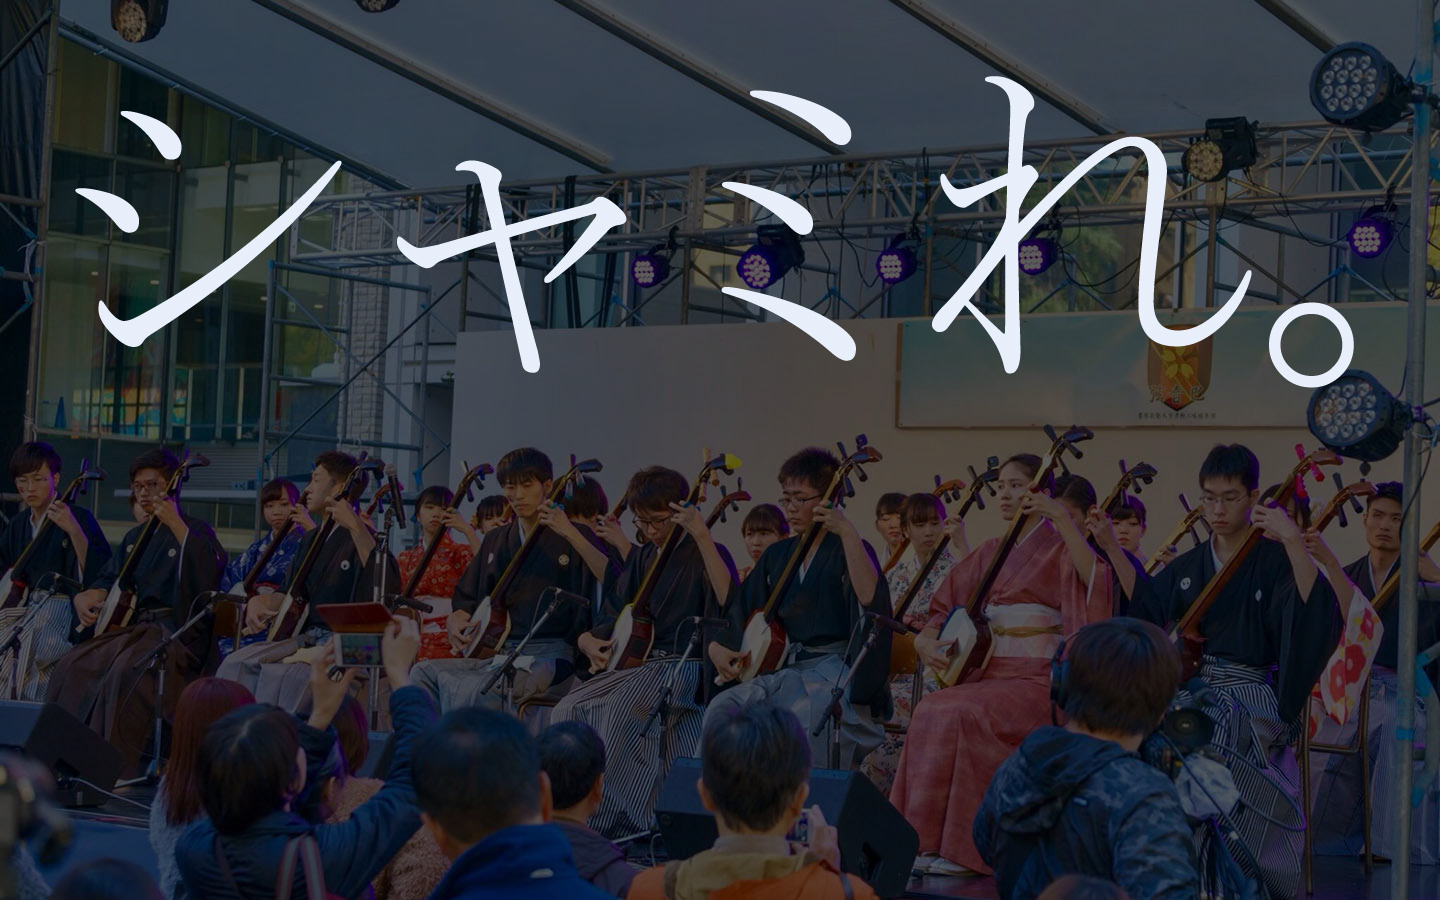
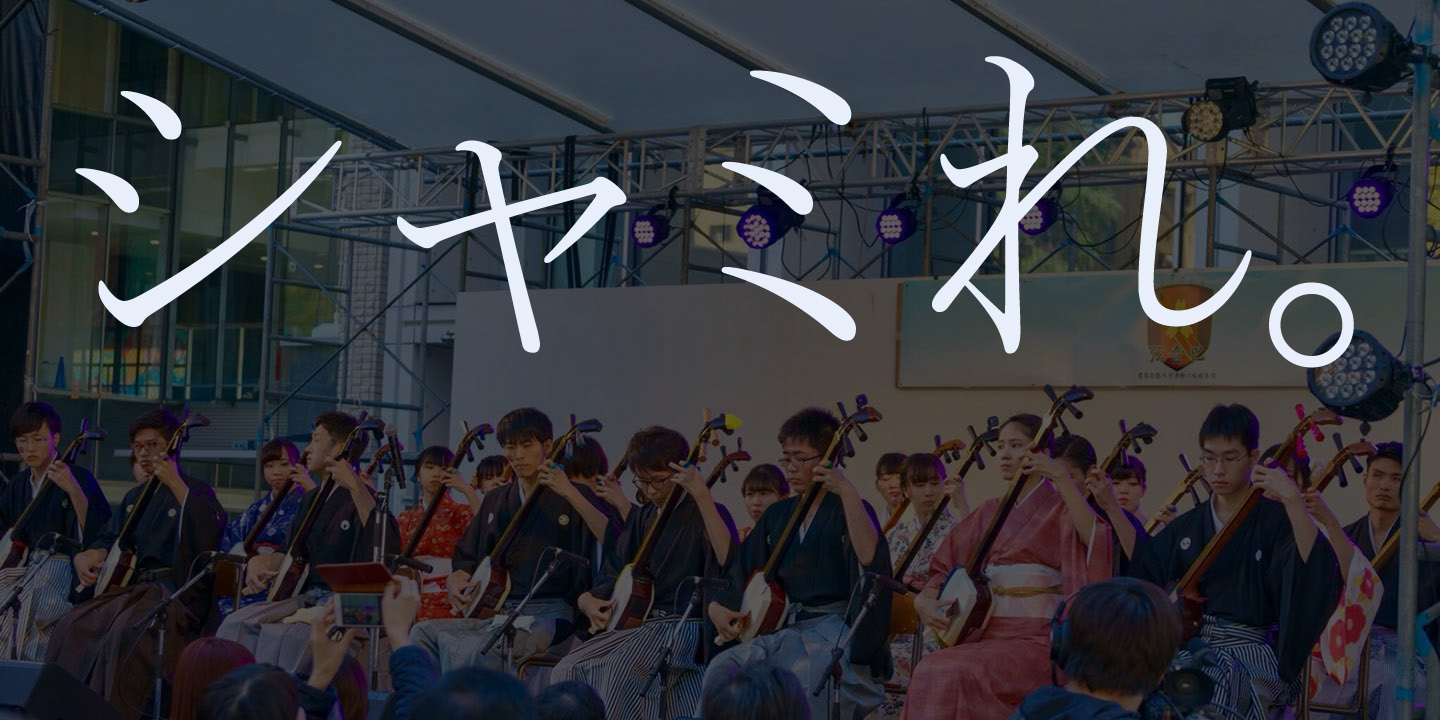
whatIsOtohaSetted

diff --git a/mobile.css b/mobile.css
@@ -12,102 +12,13 @@ body {
     background-size: cover;
 }
 
+section {
+    margin: 0 0 300px;
+}
+
 /*ファーストビュー設定*/
 header {
     position: relative;
-}
-
-#nav-drawer {
-    position: relative;
-}
-
-/*チェックボックス等は非表示に*/
-.nav-unshown {
-    display: none;
-}
-
-/*アイコンのスペース*/
-#nav-open {
-    display: inline-block;
-    width: 30px;
-    height: 22px;
-    vertical-align: middle;
-}
-
-/*ハンバーガーアイコンをCSSだけで表現*/
-#nav-open span,
-#nav-open span:before,
-#nav-open span:after {
-    position: absolute;
-    height: 3px;
-    /*線の太さ*/
-    width: 25px;
-    /*長さ*/
-    border-radius: 3px;
-    background: #555;
-    display: block;
-    content: '';
-    cursor: pointer;
-}
-
-#nav-open span:before {
-    bottom: -8px;
-}
-
-#nav-open span:after {
-    bottom: -16px;
-}
-
-/*閉じる用の薄黒カバー*/
-#nav-close {
-    display: none;
-    /*はじめは隠しておく*/
-    position: fixed;
-    z-index: 99;
-    top: 0;
-    /*全体に広がるように*/
-    left: 0;
-    width: 100%;
-    height: 100%;
-    background: black;
-    opacity: 0;
-    transition: .3s ease-in-out;
-}
-
-/*中身*/
-#nav-content {
-    overflow: auto;
-    position: fixed;
-    top: 0;
-    left: 0;
-    z-index: 9999;
-    /*最前面に*/
-    width: 90%;
-    /*右側に隙間を作る（閉じるカバーを表示）*/
-    max-width: 330px;
-    /*最大幅（調整してください）*/
-    height: 100%;
-    background: #fff;
-    /*背景色*/
-    transition: .3s ease-in-out;
-    /*滑らかに表示*/
-    -webkit-transform: translateX(-105%);
-    transform: translateX(-105%);
-    /*左に隠しておく*/
-}
-
-/*チェックが入ったらもろもろ表示*/
-#nav-input:checked ~ #nav-close {
-    display: block;
-    /*カバーを表示*/
-    opacity: .5;
-}
-
-#nav-input:checked ~ #nav-content {
-    -webkit-transform: translateX(0%);
-    transform: translateX(0%);
-    /*中身を表示（右へスライド）*/
-    box-shadow: 6px 0 25px rgba(0, 0, 0, .15);
 }
 
 .heroForStyle {
@@ -122,7 +33,7 @@ header {
 header div h1 {
     font-size: 56rem;
     font-weight: 300;
-    padding: 9% 2% 3%;
+    padding: 40% 2% 5%;
     -webkit-writing-mode: vertical-rl;
     -ms-writing-mode: tb-rl;
     writing-mode: vertical-rl;
@@ -132,7 +43,7 @@ header div h1 {
 
 header div {
     position: absolute;
-    top: 10%;
+    top: 16%;
     right: 0;
     left: 0;
     margin: 0 auto;
@@ -152,6 +63,7 @@ header p {
     background-size: contain;
     background-repeat: no-repeat;
     background-position: center;
+    margin: 0;
 }
 
 .catchPhrase p {
@@ -161,4 +73,44 @@ header p {
 
 nav {
     display: none;
+}
+
+/*弦音巴とは？作成*/
+#whatIsOtoha {
+    background-image: url(imageForMobile/whatIsOtoha.jpg);
+    background-size: cover;
+    background-repeat: no-repeat;
+    background-position: center;
+}
+
+#whatIsOtoha img {
+    width: 66%;
+    display: block;
+    margin: 0 auto;
+    padding: 20% 0;
+}
+
+#whatIsOtoha .purpose {
+    text-align: center;
+    font-size: 24rem;
+    display: inline-block;
+    padding: 3%;
+}
+
+#whatIsOtoha .purposeContainer {
+    display: flex;
+    flex-flow: row wrap;
+    justify-content: center;
+    padding: 0 0 20%;
+}
+
+#explanationStyle{
+    display: none;
+}
+
+#whatIsOtoha #explanationMobile {
+    text-align: center;
+    font-size: 12rem;
+    padding: 0 0 20%;
+    line-height: 4rem
 }

diff --git a/index.html b/index.html
@@ -12,12 +12,6 @@
 
 <body>
     <header>
-        <div id="nav-drawer">
-            <input id="nav-input" type="checkbox" class="nav-unshown">
-            <label id="nav-open" for="nav-input"><span></span></label>
-            <label class="nav-unshown" id="nav-close" for="nav-input"></label>
-            <div id="nav-content">ここに中身を入れる</div>
-        </div>
         <img class="heroForStyle" src="imageForStyle/hero.jpg" width="100%" alt="">
         <img class="heroForMobile" src="imageForMobile/hero.jpg" width="100%" alt="">
         <div>
@@ -39,9 +33,9 @@
     </section>
 
     <nav>
-        <a class="navImg" href=""><img src="imageForStyle/otoha-logo.png" alt=""></a>
+        <a class="navImg" href="https://otohakeio.wixsite.com/keiootoha"><img src="imageForStyle/otoha-logo.png" alt=""></a>
         <ul>
-            <li><a class="navItem" href="">弦音巴とは？</a></li>
+            <li><a class="navItem" href="#whatIsOtoha">弦音巴とは？</a></li>
             <li><a class="navItem" href="">説明会・ライブ</a></li>
             <li><a class="navItem" href="">練習見学</a></li>
             <li><a class="navItem" href="">新歓食事会</a></li>
@@ -49,4 +43,29 @@
             <li><a class="navItem" href="">コンタクト</a></li>
         </ul>
     </nav>
+
+    <section id="whatIsOtoha">
+        <img src="imageForStyle/whatIsOtoha-otoha-logo.png" alt="">
+        <div class="purposeContainer">
+            <p class="purpose">「新しいことがしたい。」<p>
+                    <p class="purpose">「人と違うことがしたい。」</p>
+                    <p class="purpose">「一度は音楽をしたい。」</p>
+                    <p class="purpose">「着付けを習得したい。」</p>
+        </div>
+        <p id="explanationStyle">
+            弦音巴は、そんなあなたが求めていたサークルかもしれません。<br>
+            「津軽三味線集団弦音巴」は、創立5年目となる慶應義塾公認津軽三味線サークルです。<br>
+            ほぼ全員のメンバーが初心者から始めました。<br>
+            最後の学生生活、私たちと共に「挑戦」しませんか？
+        </p>
+        <p id="explanationMobile">
+            弦音巴は、そんなあなたが<br>
+            求めていたサークルかもしれません。<br>
+            「津軽三味線集団弦音巴」は、創立5年目となる<br>
+            慶應義塾公認津軽三味線サークルです。<br>
+            ほぼ全員のメンバーが初心者から始めました。<br>
+            最後の学生生活、私たちと共に「挑戦」しませんか？
+        </p>
+
+    </section>
 </body></html>

diff --git a/style.css b/style.css
@@ -12,11 +12,11 @@ body {
     background-size: cover;
 }
 
-/*ファーストビュー設定*/
-#nav-drawer{
-    display: none;
+section {
+    margin: 0 0 300px;
 }
 
+/*ファーストビュー設定*/
 .heroForStyle {
     width: 100%;
     position: relative;
@@ -35,7 +35,7 @@ header p {
     font-weight: 400;
     text-align: center;
     position: absolute;
-    top: 72%;
+    top: 58%;
     right: 0;
     left: 0;
     margin: 0 auto;
@@ -77,4 +77,45 @@ li {
 
 a:hover {
     color: rgba(255, 255, 255, 0.35);
+}
+
+/*弦音巴とは？作成*/
+#whatIsOtoha {
+    background-image: url(imageForStyle/whatIsOtoha.jpg);
+    background-size: cover;
+    background-repeat: no-repeat;
+    background-position: center;
+    margin-top: 300px;
+}
+
+#whatIsOtoha img {
+    width: 33%;
+    display: block;
+    margin: 0 auto;
+    padding: 5% 0;
+}
+
+#whatIsOtoha .purpose {
+    text-align: center;
+    font-size: 32rem;
+    display: inline-block;
+    padding: 1% 2%;
+}
+
+#whatIsOtoha .purposeContainer {
+    display: flex;
+    flex-flow: row wrap;
+    justify-content: center;
+    padding: 0 0 5%;
+}
+
+#explanationStyle {
+    text-align: center;
+    font-size: 16rem;
+    padding: 0 0 5%;
+    line-height: 7rem
+}
+
+#explanationMobile {
+    display: none;
 }
